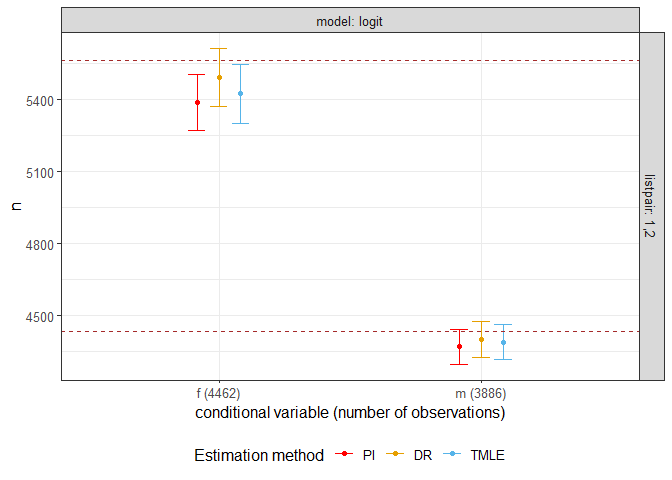
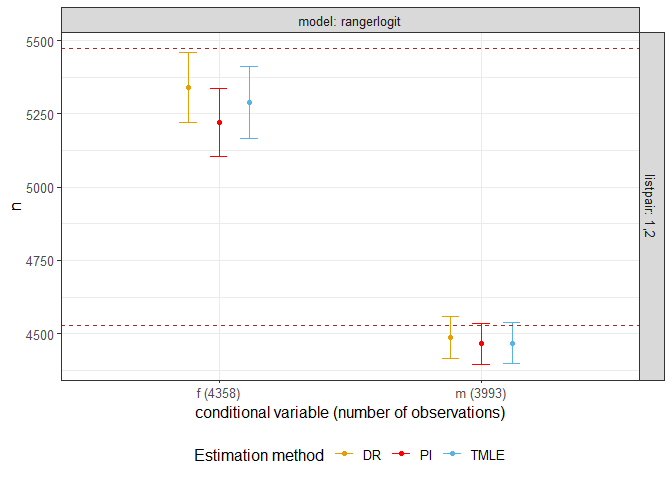
Minor

diff --git a/README.md b/README.md
@@ -7,9 +7,9 @@
 
 <!-- badges: end -->
 
-The goal of drpop is to provide users doubly-robust and efficient
-estimates of population size and the variances for a capture-recapture
-problem.
+The goal of drpop is to provide users doubly robust and efficient
+estimates of population size and the condifence intervals for a
+capture-recapture problem.
 
 ## Installation
 
@@ -27,7 +27,7 @@ And the development version from [GitHub](https://github.com/) with:
 devtools::install_github("mqnjqrid/drpop")
 ```
 
-## Example
+## Examples
 
 This is a basic example which shows you how to solve a common problem:
 
@@ -39,28 +39,33 @@ x = matrix(rnorm(n*3, 2, 1), nrow = n)
 expit = function(xi) {
   exp(sum(xi))/(1 + exp(sum(xi)))
 }
-y1 = unlist(apply(x, 1, function(xi) {sample(c(0, 1), 1, replace = TRUE, prob = c( 1 - expit(-0.6 + 0.4*xi), expit(-0.6 + 0.4*xi)))}))
-y2 = unlist(apply(x, 1, function(xi) {sample(c(0, 1), 1, replace = TRUE, prob = c( 1 - expit(-0.6 + 0.3*xi), expit(-0.6 + 0.3*xi)))}))
-datacrc = cbind(y1, y2, exp(x/2))
+y1 = unlist(apply(x, 1, function(xi) {sample(c(0, 1), 1, replace = TRUE, prob = c(1 - expit(-0.6 + 0.4*xi), expit(-0.6 + 0.4*xi)))}))
+y2 = unlist(apply(x, 1, function(xi) {sample(c(0, 1), 1, replace = TRUE, prob = c(1 - expit(-0.6 + 0.3*xi), expit(-0.6 + 0.3*xi)))}))
+datacrc = cbind(y1, y2, exp(x/2))[y1+y2 > 0, ]
 
-options(warn = -1)
-estim <- psinhat(List_matrix = datacrc, func = c("logit"), nfolds = 2, K = 2)
-#> -- Attaching packages ------------------------------------------- tidyverse 1.3.0 --
+estim <- psinhat(List_matrix = datacrc, func = c("gam"), nfolds = 2, K = 2)
+#> Warning: package 'tidyverse' was built under R version 4.0.3
+#> -- Attaching packages ---------------
 #> v ggplot2 3.3.3     v purrr   0.3.4
 #> v tibble  3.0.3     v dplyr   1.0.1
 #> v tidyr   1.1.1     v stringr 1.4.0
 #> v readr   1.3.1     v forcats 0.5.0
-#> -- Conflicts ---------------------------------------------- tidyverse_conflicts() --
+#> Warning: package 'ggplot2' was built under R version 4.0.4
+#> -- Conflicts ------------------------
 #> x dplyr::filter() masks stats::filter()
 #> x dplyr::lag()    masks stats::lag()
-# The population size estimates are obtained by
-estim$n
-#>     logit.PI logit.DR logit.TMLE
-#> 1,2 1037.839  1035.85   1720.855
-# The corresponding variances are
-estim$varn
-#>     logit.PI logit.DR logit.TMLE
-#> 1,2 1069.351 1067.216   86782.78
+#> 
+#> Attaching package: 'foreach'
+#> The following objects are masked from 'package:purrr':
+#> 
+#>     accumulate, when
+#> Loaded gam 1.20
+# The population size estimates are 'n' and the standard deviations are 'sigman'
+print(estim)
+#>   listpair model method   psi sigma   n sigman cin.l cin.u
+#> 1      1,2   gam     DR 0.830 0.856 963 27.987   908  1018
+#> 2      1,2   gam     PI 0.826 0.856 969 28.127   914  1024
+#> 3      1,2   gam   TMLE 0.825 0.764 970 25.945   919  1021
 ## basic example code
 ```
 
@@ -76,13 +81,20 @@ x = matrix(rnorm(n*3, 2,1), nrow = n)
 expit = function(xi) {
   exp(sum(xi))/(1 + exp(sum(xi)))
 }
-y1 = unlist(apply(x, 1, function(xi) {sample(c(0, 1), 1, replace = TRUE, prob = c( 1 - expit(-0.6 + 0.4*xi), expit(-0.6 + 0.4*xi)))}))
-y2 = unlist(apply(x, 1, function(xi) {sample(c(0, 1), 1, replace = TRUE, prob = c( 1 - expit(-0.6 + 0.3*xi), expit(-0.6 + 0.3*xi)))}))
-datacrc = cbind(y1, y2, exp(x/2))
+y1 = unlist(apply(x, 1, function(xi) {sample(c(0, 1), 1, replace = TRUE, prob = c(1 - expit(-0.6 + 0.4*xi), expit(-0.6 + 0.4*xi)))}))
+y2 = unlist(apply(x, 1, function(xi) {sample(c(0, 1), 1, replace = TRUE, prob = c(1 - expit(-0.6 + 0.3*xi), expit(-0.6 + 0.3*xi)))}))
+datacrc = cbind(y1, y2, exp(x/2))[y1+y2>0,]
 
-estim <- psinhat(List_matrix = datacrc, func = c("logit", "sl"), nfolds = 2, eps = 0.01)
-
-plotci(psinhat = estim)$g1
+estim <- psinhat(List_matrix = datacrc, func = c("gam", "rangerlogit"), nfolds = 2, eps = 0.01)
+print(estim)
+#>   listpair       model method   psi sigma    n sigman cin.l cin.u
+#> 1      1,2         gam     DR 0.815 0.866 2938 49.622  2841  3035
+#> 2      1,2         gam     PI 0.821 0.866 2917 49.318  2821  3014
+#> 3      1,2         gam   TMLE 0.834 0.828 2872 47.063  2780  2965
+#> 4      1,2 rangerlogit     DR 0.811 0.702 2954 43.242  2870  3039
+#> 5      1,2 rangerlogit     PI 0.846 0.702 2833 41.201  2752  2913
+#> 6      1,2 rangerlogit   TMLE 0.834 0.729 2872 42.958  2787  2956
+plotci(estim)
 ```
 
 <img src="man/figures/README-plot1-1.png" width="100%" />
@@ -104,15 +116,15 @@ x = matrix(rnorm(n*3, 2, 1), nrow = n)
 expit = function(xi) {
   exp(sum(xi))/(1 + exp(sum(xi)))
 }
-ss = sample(c('m','f'), n, replace = TRUE, prob = c(0.45, 0.55))
+catcov = sample(c('m','f'), n, replace = TRUE, prob = c(0.45, 0.55))
 
-y1 = unlist(apply(x, 1, function(xi) {sample(c(0, 1), 1, replace = TRUE, prob = c( 1 - expit(-0.6 + 0.4*xi), expit(-0.6 + 0.4*xi)))}))
-y2 = sapply(1:n, function(i) {sample(c(0, 1), 1, replace = TRUE, prob = c( 1 - expit(-0.6 + 0.3*(ss[i] == 'm') + 0.3*x[i,]), expit(-0.6 + 0.3*(ss[i] == 'm') + 0.3*x[i,])))})
-datacrc = cbind.data.frame(y1, y2, exp(x/2), ss)
+y1 = unlist(apply(x, 1, function(xi) {sample(c(0, 1), 1, replace = TRUE, prob = c(1 - expit(-0.6 + 0.4*xi), expit(-0.6 + 0.4*xi)))}))
+y2 = sapply(1:n, function(i) {sample(c(0, 1), 1, replace = TRUE, prob = c(1 - expit(-0.6 + 0.3*(catcov[i] == 'm') + 0.3*x[i,]), expit(-0.6 + 0.3*(catcov[i] == 'm') + 0.3*x[i,])))})
+datacrc = cbind.data.frame(y1, y2, exp(x/2), catcov)[y1+y2>0,]
 
-p = psinhatcond(List_matrix = datacrc, condvar = 'ss')
-summary = plotci(psinhatcond = p)
-summary$g2 + geom_hline(yintercept = table(ss), color = "brown", linetype = "dashed")
+result = psinhatcond(List_matrix = datacrc, condvar = 'catcov')
+fig = plotci(result)
+fig + geom_hline(yintercept = table(catcov), color = "brown", linetype = "dashed")
 ```
 
 <img src="man/figures/README-plot2-1.png" width="100%" />
